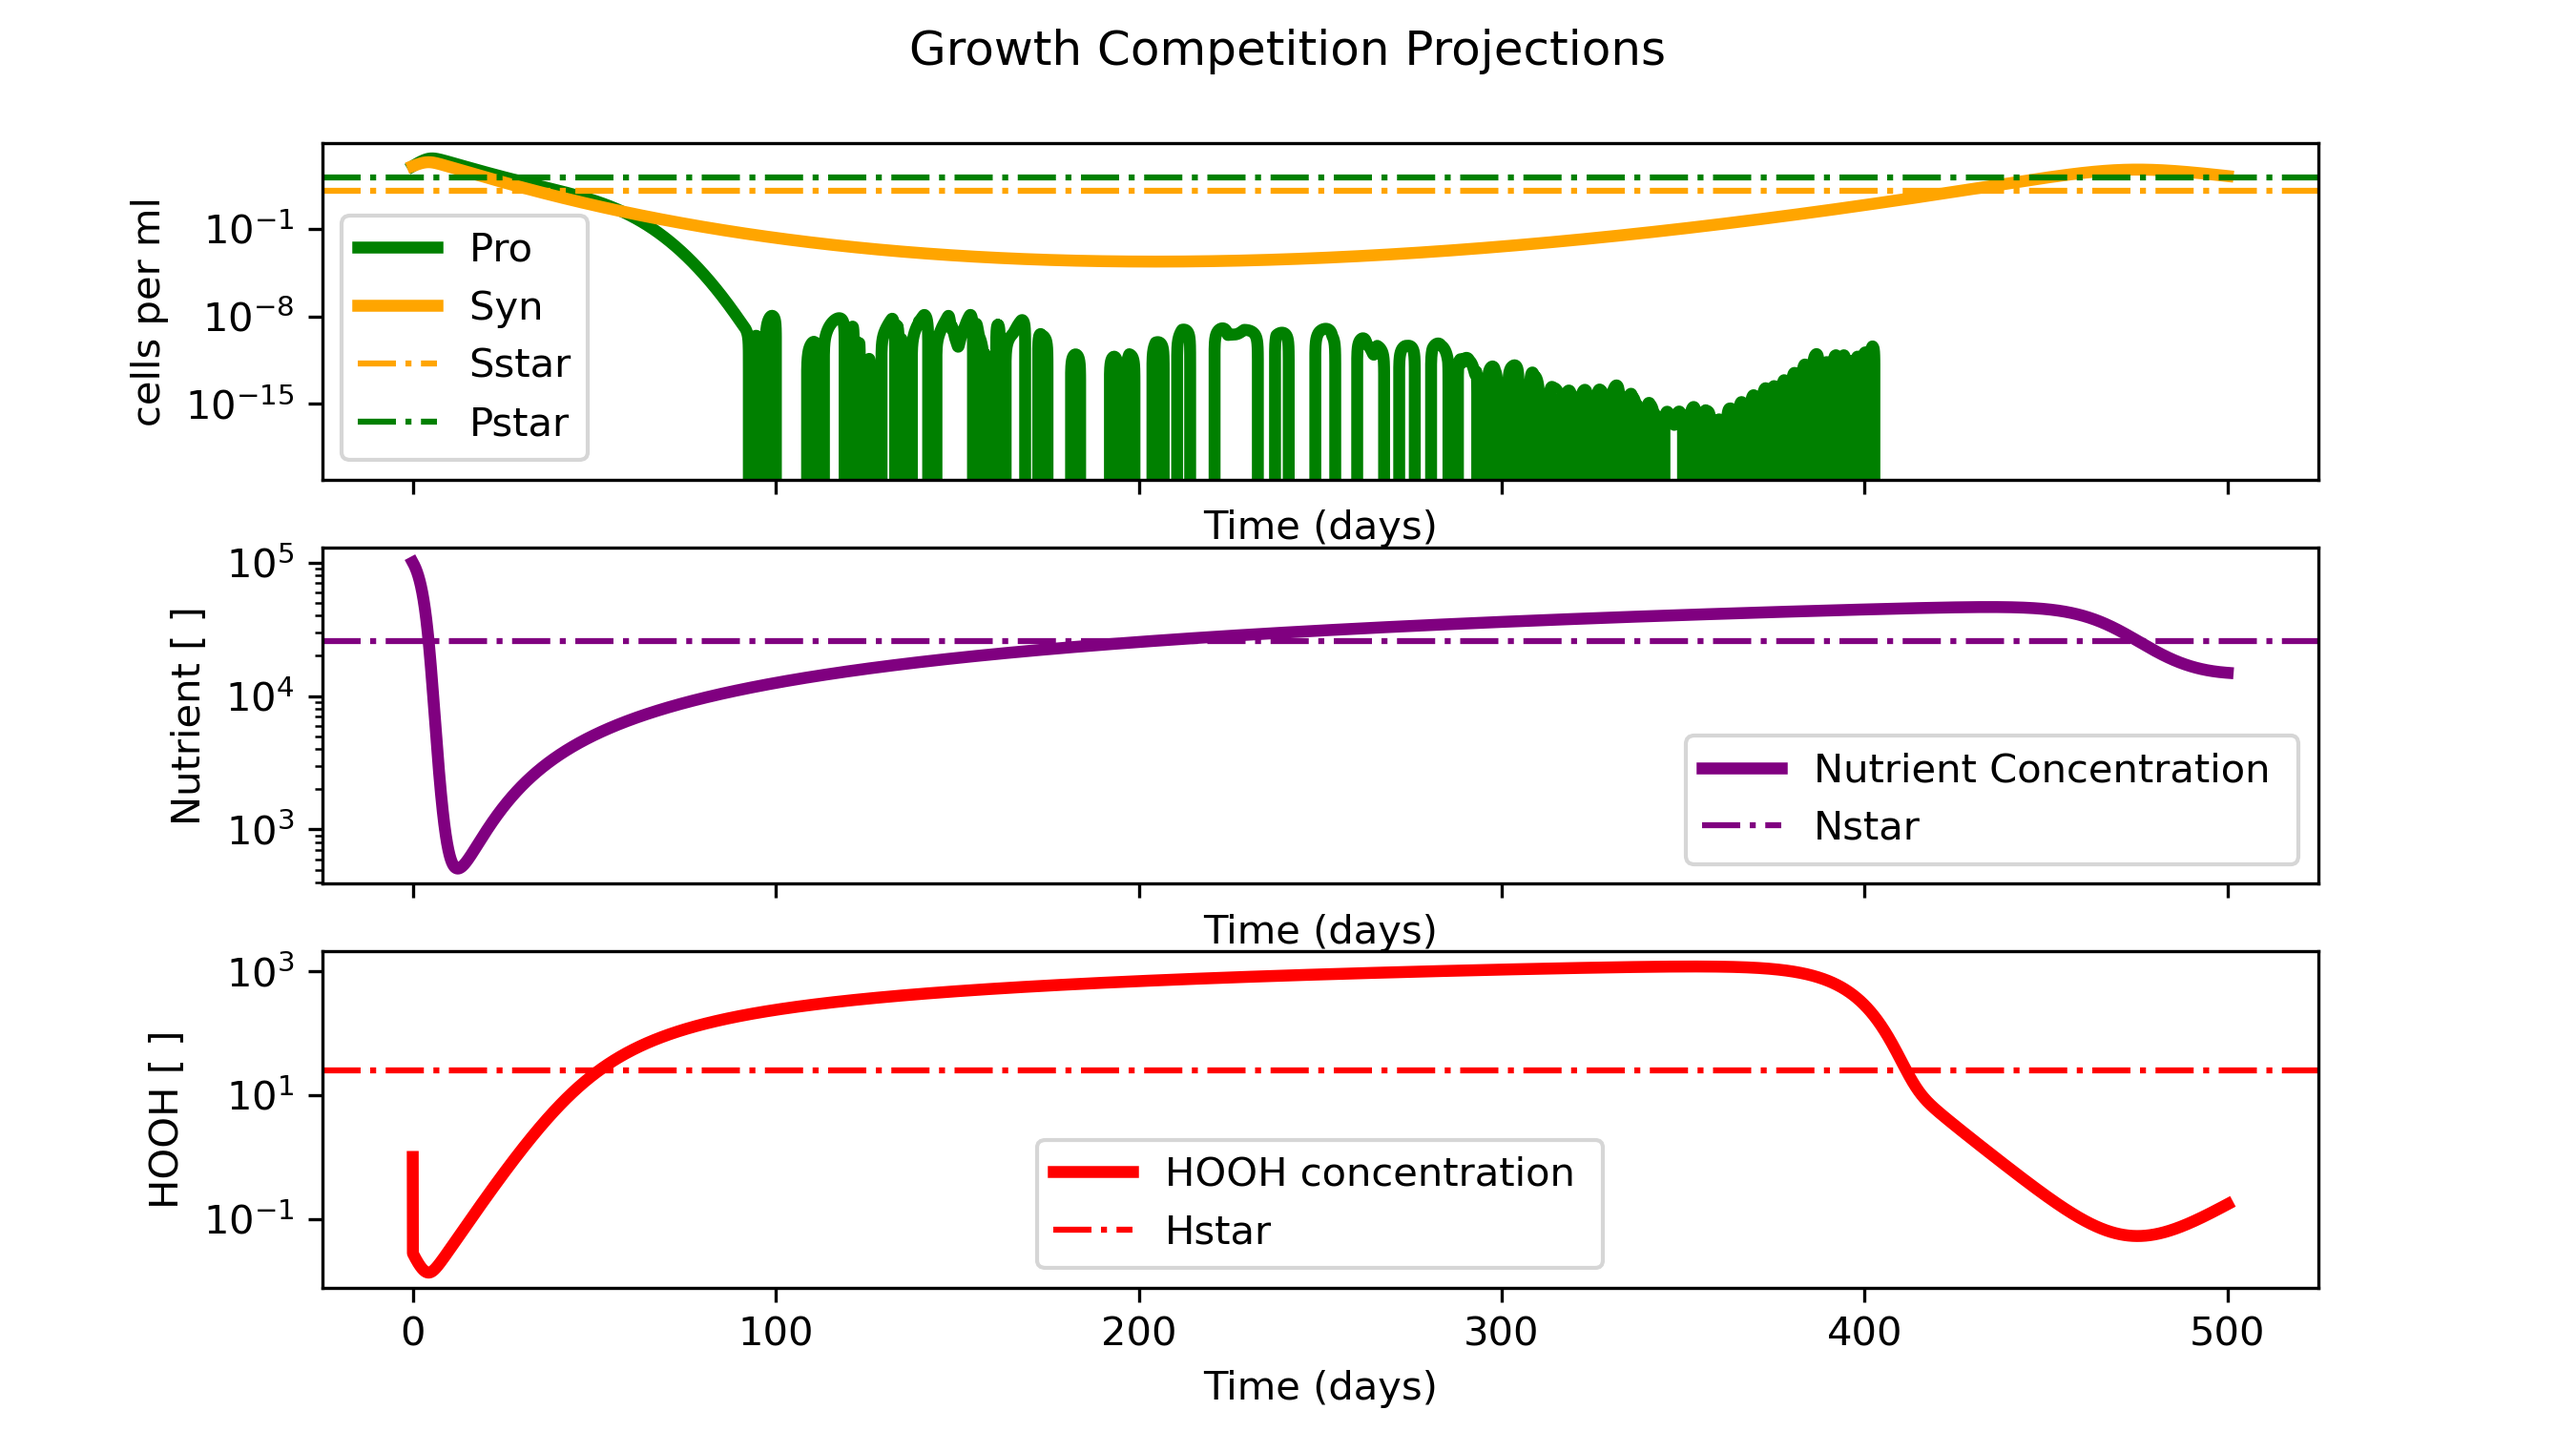
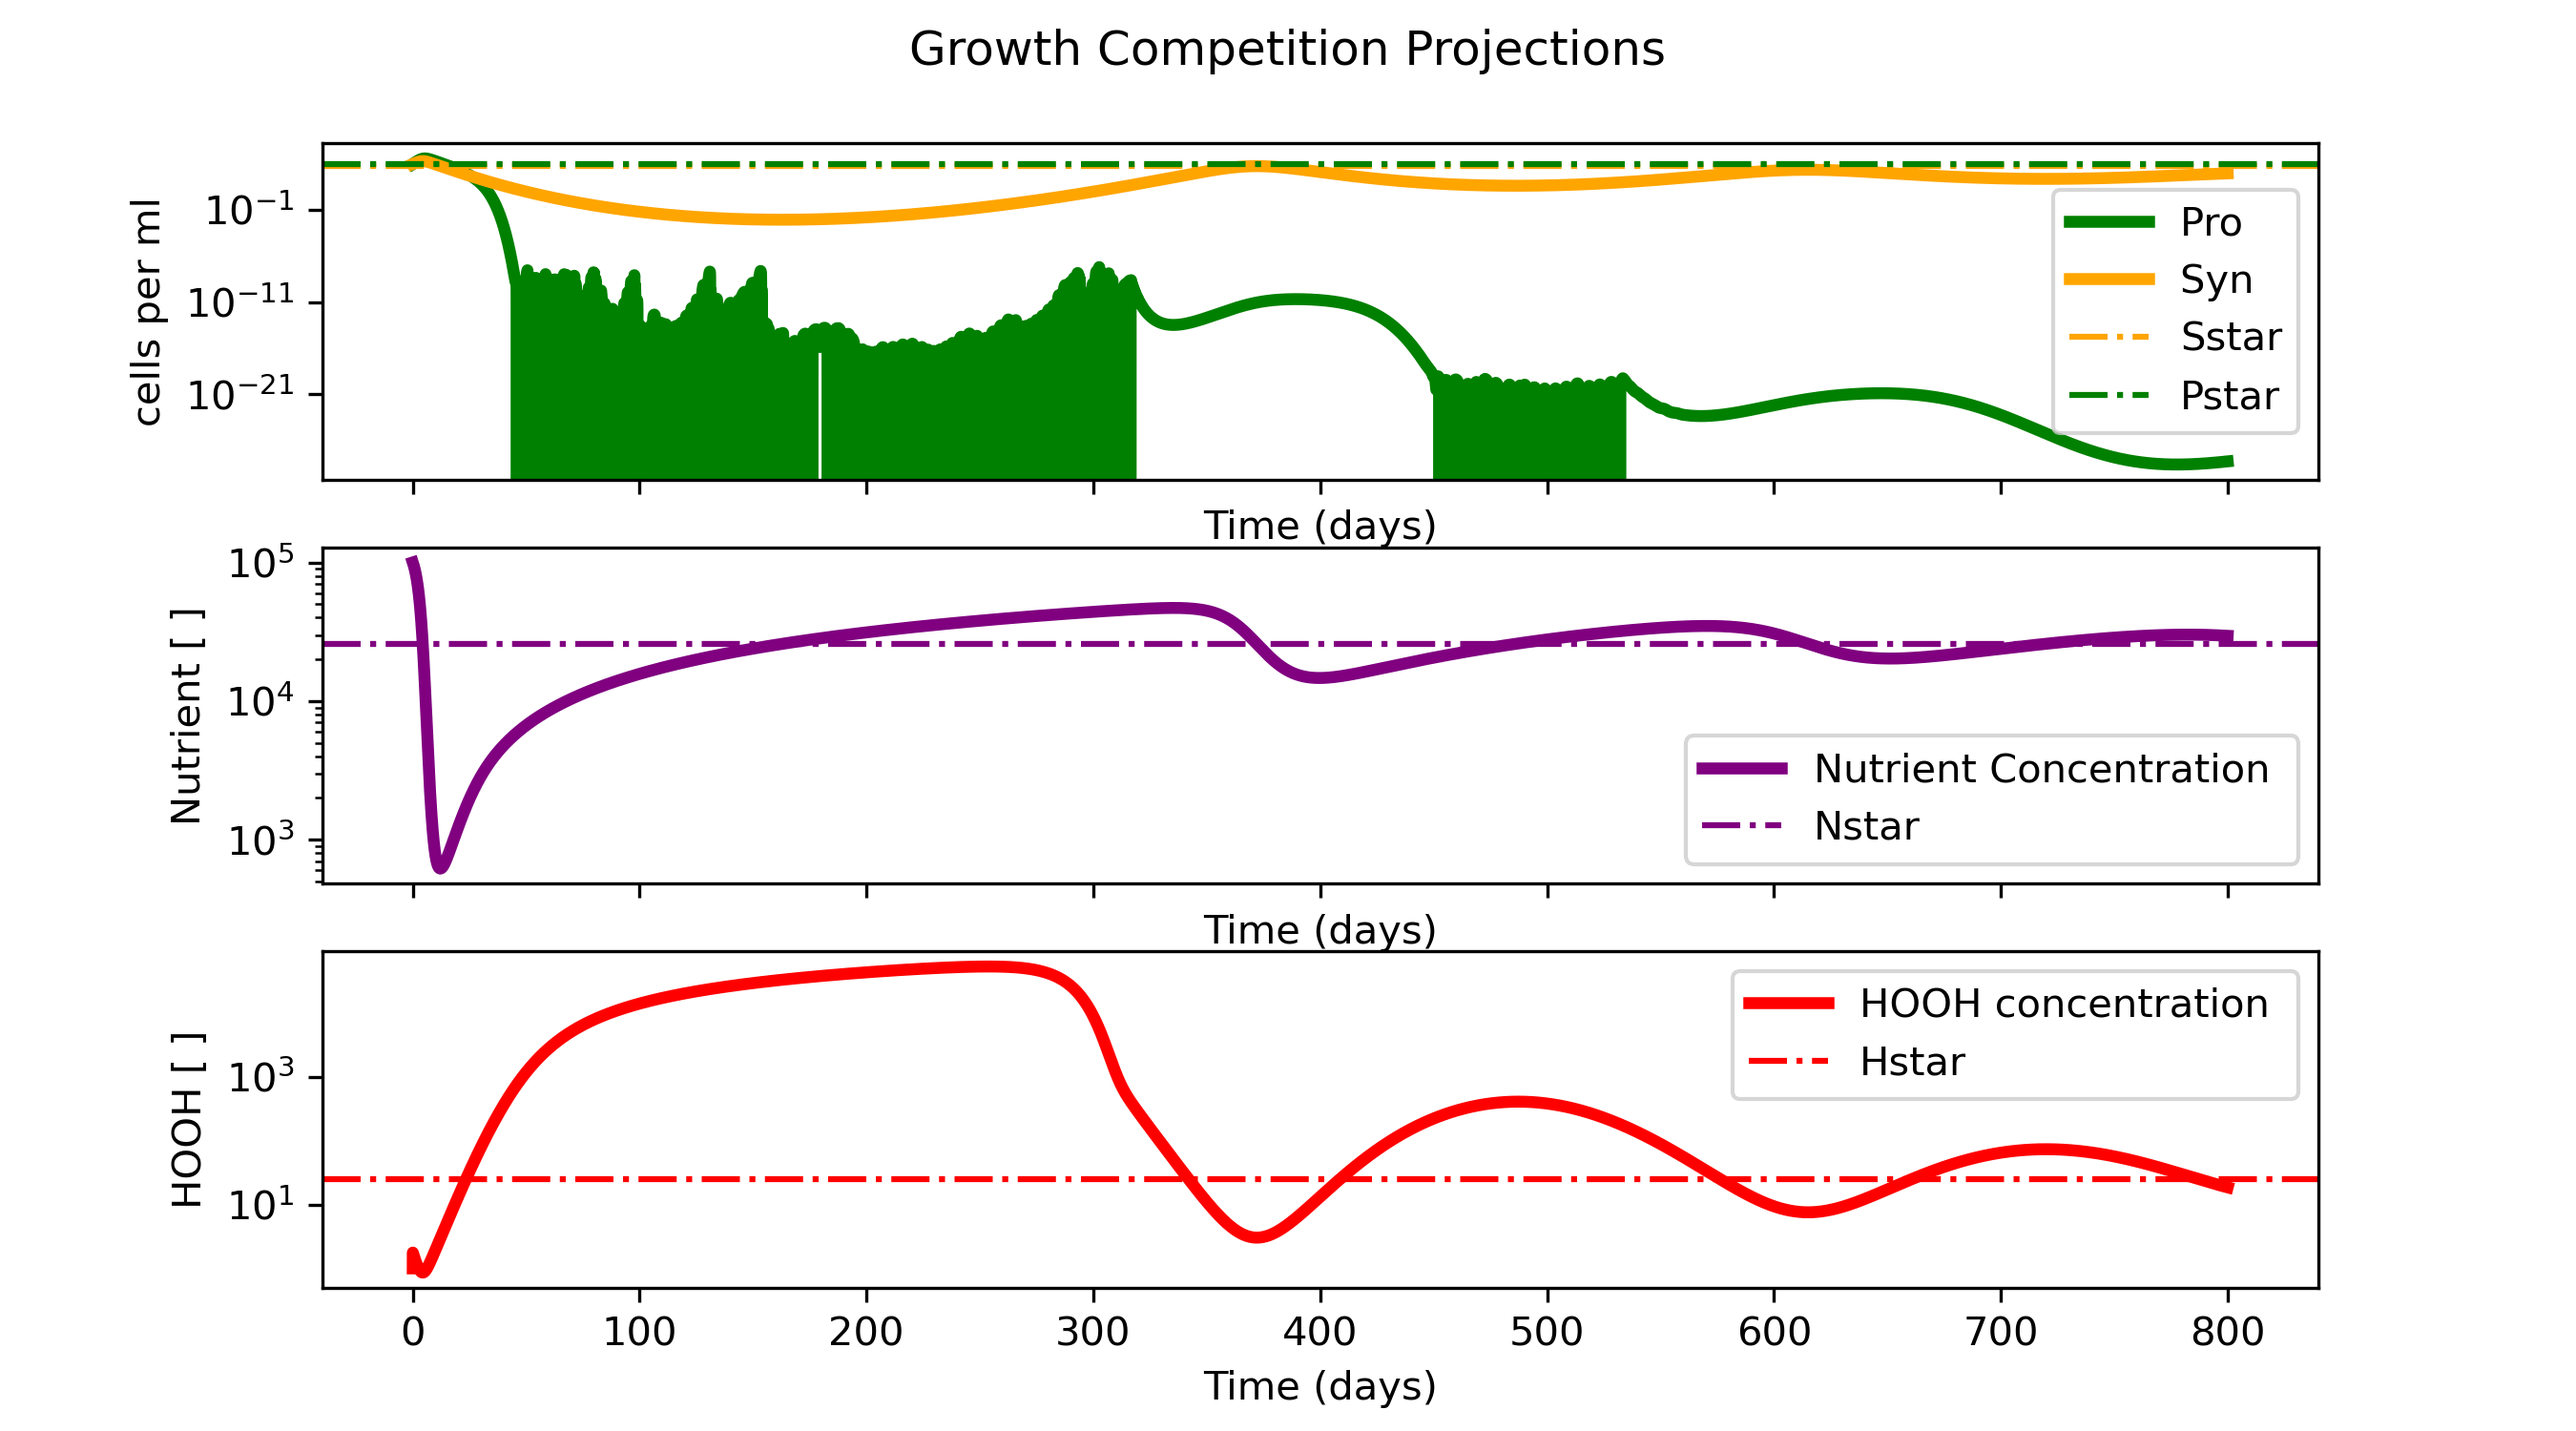
eod

diff --git a/src/leaky_contour.py b/src/leaky_contour.py
@@ -31,11 +31,11 @@ import sys
 #############################################
 
 
-step = 0.01
-ndays = 500
+step = 0.001
+ndays = 1000
 mtimes = np.linspace(0,ndays,int(ndays/step))
-Shs = np.linspace(0, 60, num = 1000)
-SNs = np.linspace(0, 600, num = 1000)
+SNs = np.linspace(0, 3000, num = 60)
+Shs = np.linspace(0, 3000, num = 60)
 Z = np.zeros((int(SNs.shape[0]),int(Shs.shape[0])),float)
 
 
@@ -100,23 +100,20 @@ for (i,SN) in zip(range(SNs.shape[0]),SNs):
         Nsc = leaky[:,2]
         Hsc = leaky[:,3]
         #print(Z[i,j])
-        if (i == 3) and (j == 1):
+        if (i == 4) and (j == 7):
             Ps = leaky[:,0]
             Ss = leaky[:,1]
             Ns = leaky[:,2]
             Hs = leaky[:,3]
-        Ssc_av = np.mean(Ssc[-30:])
-        Psc_av = np.mean(Psc[-30:])
-        #print(Ssc_av, Psc_av)
+        Ssc_av = np.mean(Ssc[-200:])
+        Psc_av = np.mean(Psc[-200:])
         ratio = (Ssc_av/( Ssc_av+ Psc_av))
-        #print(ratio)
         Z[i,j] = ratio
-        #print(Z[i,j])
-        if np.all([g <= 1e-2 for g in Psc[-100:]]) and np.all([h >= 10 for h in Ssc[-100:]]) : 
+        if np.all([g <= 1e-3 for g in Psc[-200:]]) and np.all([h >= 10 for h in Ssc[-200:]]) : 
             Z[i,j] = 1
-        if np.all([g >= 10 for g in Psc[-100:]]) and np.all([h <= 1e-2 for h in Ssc[-100:]]) : 
+        if np.all([g >= 10 for g in Psc[-200:]]) and np.all([h <= 1e-3 for h in Ssc[-200:]]) : 
             Z[i,j] = 0
-        if np.all([g <= 1e-2 for g in Psc[-100:]]) and np.all([h <= 1e-2 for h in Ssc[-100:]]) : 
+        if np.all([g <= 1e-3 for g in Psc[-200:]]) and np.all([h <= 1e-3 for h in Ssc[-200:]]) : 
             Z[i,j] = -1
         #elif Z[i,j] > 10:
             #print(i,j)
@@ -170,20 +167,28 @@ ax3.semilogy()
 
 
 ###### coesistance equilibrium (star equations ) ###########
-###### with QN ##################
 
+#Coexist
 Nstar = (kss*ds)/(k2-ds)
-
 Hstar = (((k2*Nstar)/(Nstar + ksp))-(dp))*(1/kdam)
-
-
 Sstar = (Sh - deltah*Hstar)/(phi*Hstar)
+Pstar = ((SN-rho*Nstar)*(Nstar + ksp))/(k2*Nstar*Qnp)
 
 
-Pstar = (SN - (((k2*Nstar)/(Nstar + kss))*Sstar*Qns) - (rho*Nstar))*((Nstar + ksp)/(k2*Nstar*Qnp))
 
-#Pwin stars
-#Swin stars
+#Pwin 
+Nstarp = ((ksp*dp )+(ksp*kdam))/((k2*Qnp) - dp - kdam)
+Pstarp = (SN - rho*Nstarp)*((Nstarp + ksp)/((k2*Nstarp)*Qnp))
+Hstarp = Sh/(deltah+phi*Pstar)  #do we need toassume H must be 0 for P to win?????
+
+#Swin 
+Nstars = (ds*kss)/((k2*Qns)-ds)
+Sstars = (SN - rho*Nstars)*(((Nstars + kss)/(k2*Nstars*Qns)))
+Hstars = Sh/(deltah)
+
+
+Nstarph = ((ksp*dp )+(ksp*kdam*Hstar))/((k2*Qnp) - dp - (kdam*Hstar))
+vHline = ((deltah)/(Pstar*kdam)*((Nstarp+ksp)/(k2*Nstarp*Pstar*Qnp)+(dp*Pstar)))
 
 
 
@@ -207,21 +212,25 @@ fig.savefig('../figures/leaky_calcs_auto',dpi=300)
 ######################################
 
 fig3,(ax1) = plt.subplots(sharex = True, sharey = True, figsize = (8,5))
-
+fig3.suptitle('Leaky HOOH Contour')
 
 grid = ax1.pcolormesh( Shs, SNs, np.where(Z == -1, np.nan, Z), vmin=0, vmax=np.max(Z), cmap = 'summer', shading= 'auto'  )  #'gouraud'
-ax1.set(xlabel='Supply hooh')
+ax1.set(xlabel='SupplyHOOH')
 ax1.set(ylabel='Supply nutrient')
 
-#ax1.axvline((deltah*Hstar),color = 'purple', linestyle = "-.",label = 'H cutoff??')
-#ax1.axhline(((rho*Nstar)+(((k2*Nstar)/(Nstar-kss))*Sstar*Qns)),color = 'magenta', linestyle = "-.",label = 'Sn cut off on S?')
+#np.max(Z)
+ax1.axhline((rho*Nstars),color = 'purple', linestyle = "-.",label = 'SN cutoff for S growth?')
+ax1.axhline((rho*Nstarp),color = 'magenta', linestyle = "-.",label = 'SN cutoff for P growth?')
 
-fig3.legend()
+ax1.axvline((vHline),color = 'c', linestyle = "-.",label = 'H cutoff?')
+#ax1.axvline((Hstar*(deltah+(phi*Pstar))),color = 'b', linestyle = "-.",label = 'H cutoff?')
+
+#fig3.legend()
 fig3.colorbar(grid, cmap= 'summer',label = 'S / S+P')
 #plt.colorbar.set_label('S/P+S')
 
 fig3.savefig('../figures/no_leak_contour_f3_auto',dpi=300)
 
 print('') #printing blank line 
-print('***No coexist???? ***')
+print('*** Nstars? or Sh cut off?  ***')
 print('*** Done ***')

diff --git a/src/no_leak_contour.py b/src/no_leak_contour.py
@@ -29,10 +29,10 @@ from scipy.integrate import odeint
 
 
 step = 0.001
-ndays = 500 
+ndays = 1000 
 mtimes = np.linspace(0,ndays,int(ndays/step))
-Shs = np.linspace(0, 100, num = 15)
-SNs = np.linspace(0, 1000, num = 15)
+Shs = np.linspace(0, 50000, num = 50)
+SNs = np.linspace(0, 50000, num = 50)
 Z = np.zeros((int(SNs.shape[0]),int(Shs.shape[0])),float)
 
 #initial values 
@@ -97,27 +97,22 @@ for (i,SN) in zip(range(SNs.shape[0]),SNs):
         Ssc = nonleaky[:,1]
         Nsc = nonleaky[:,2]
         Hcs = nonleaky[:,3]
-        if (i == 4) and (j == 5):
+        if (i == 5) and (j == 7):
             Sh = Shs[j]
             SN = SNs[i]
             Ps = nonleaky[:,0]
             Ss = nonleaky[:,1]
             Ns = nonleaky[:,2]
             Hs = nonleaky[:,3]
-        Ssc_av = np.mean(Ssc[-10:])
-        Psc_av = np.mean(Psc[-10:])
+        Ssc_av = np.mean(Ssc[-100:])
+        Psc_av = np.mean(Psc[-100:])
         ratio = (Ssc_av/( Ssc_av+ Psc_av))
         Z[i,j] = ratio
-        #if Z[i,j] < 0.5:
-            #print('SN = '+ str(i),', Sh = ' + str(j))
-            #print('Psc[-1] = '+ str(Psc[-1]), ', Ssc[-1] = '+ str(Ssc[-1]))
-        #if ([Psc[g] < Psc[g-1] for g in Psc[:]]) and ([Ssc[h] < Ssc[h-1] for h in Ssc[:]]) : 
-            #Z[i,j] = -1
-        if np.all([g <= 1e-3 for g in Psc[-100:]]) and np.all([h >= 10 for h in Ssc[-100:]]) : 
+        if np.all([g <= 1e-3 for g in Psc[-200:]]) and np.all([h >= 10 for h in Ssc[-200:]]) : 
             Z[i,j] = 1
-        if np.all([g >= 10 for g in Psc[-100:]]) and np.all([h <= 1e-3 for h in Ssc[-100:]]) : 
+        if np.all([g >= 10 for g in Psc[-200:]]) and np.all([h <= 1e-3 for h in Ssc[-200:]]) : 
             Z[i,j] = 0
-        if np.all([g <= 1e-3 for g in Psc[-100:]]) and np.all([h <= 1e-3 for h in Ssc[-100:]]) : 
+        if np.all([g <= 1e-3 for g in Psc[-200:]]) and np.all([h <= 1e-3 for h in Ssc[-200:]]) : 
             Z[i,j] = -1
 
 
@@ -202,7 +197,7 @@ fig1.savefig('../figures/no_leak_contour_f1_auto',dpi=300)
 #####################
 
 fig3,(ax1) = plt.subplots(sharex = True, sharey = True, figsize = (8,5))
-
+fig3.suptitle('Non_leaky Contour')
 grid = ax1.pcolormesh( Shs,SNs, np.where(Z == -1, np.nan, Z), vmin=0, vmax=np.max(Z), cmap = 'summer', shading='auto')  #'summer_r is reversed color map shading
 #np.where(Z == 17, np.nan, Z)
 
